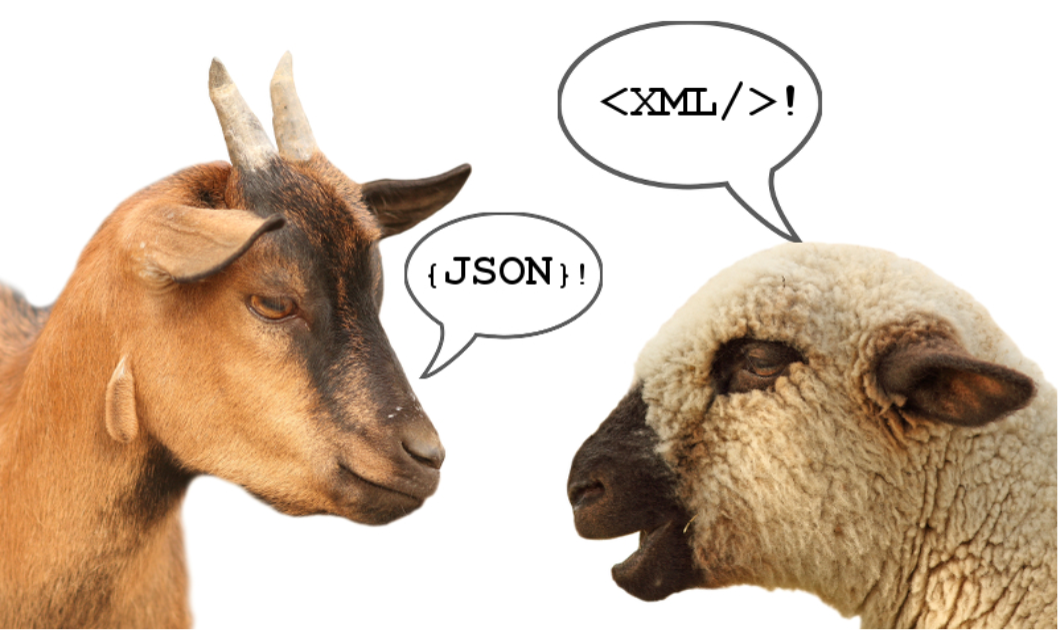
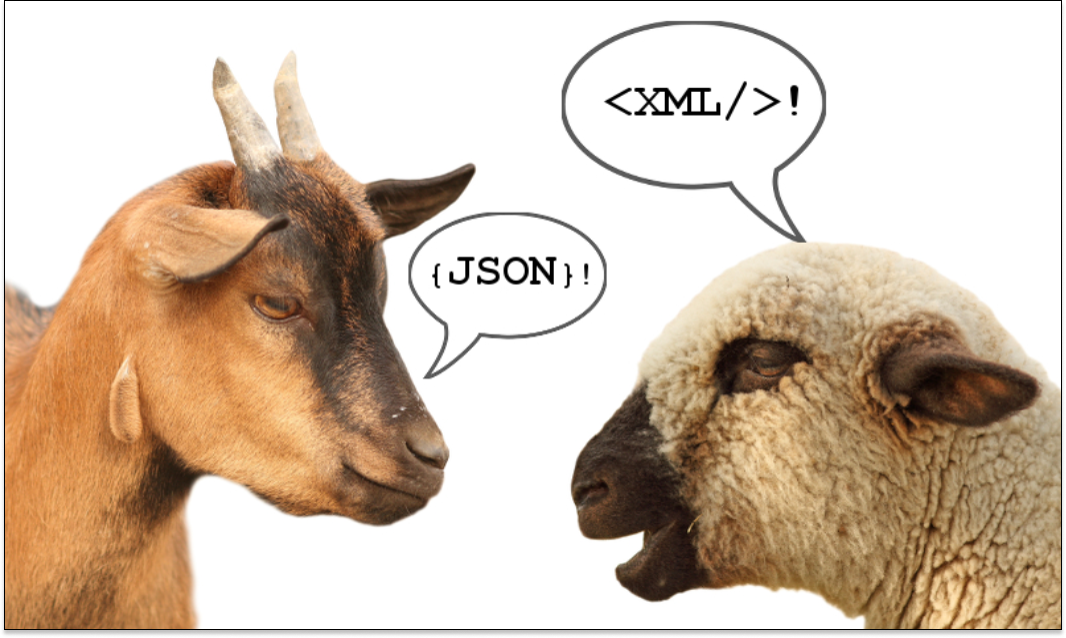
update content

diff --git a/02_cgeom-2023/index.html b/02_cgeom-2023/index.html
@@ -429,7 +429,7 @@ Pour aller plus loin: [Data.gov Catalogue Service for the Web (CSW) API](https:/
 ---
 ## 5. La réalité derrière WxS
 
-<p style="text-align:center;"><img src="./images/xml.png" alt="XML" width="80%"></p>
+<p style="text-align:center;"><img src="./images/xml.png" alt="XML" width="70%"></p>
 
 - encodage xml
 - architecture complexe
@@ -438,11 +438,11 @@ Pour aller plus loin: [Data.gov Catalogue Service for the Web (CSW) API](https:/
 ---
 ## 5. La réalité derrière WxS
  
- <p style="text-align:center;"><img src="./images/json-xml.png" alt="XML" width="90%"></p>
+ <p style="text-align:center;"><img src="./images/json-xml.png" alt="XML" width="80%"></p>
 
  XML, JSON, YAML, ...
 
- La réalité se trouve ailleurs!
+**La réalité se trouve ailleurs!**
 ---
 ## 6. OGC APIs
 
@@ -473,7 +473,7 @@ Pour aller plus loin: [Data.gov Catalogue Service for the Web (CSW) API](https:/
 - OGC API - Common
 - SensorThings API Part 1
 
-<p style="text-align:center;"><img src="./images/ogc-standards-roadmap.png" alt="OGC Standards Roadmap" width="85%"><a href="https://www.ogc.org/roadmap">https://www.ogc.org/roadmap</a></p>
+<p style="text-align:center;"><img src="./images/ogc-standards-roadmap.png" alt="OGC Standards Roadmap" width="75%"><a href="https://www.ogc.org/roadmap">https://www.ogc.org/roadmap</a></p>
 ---
 ## 8. Correspondance OGC APIs vs WxS<br><br>
 
